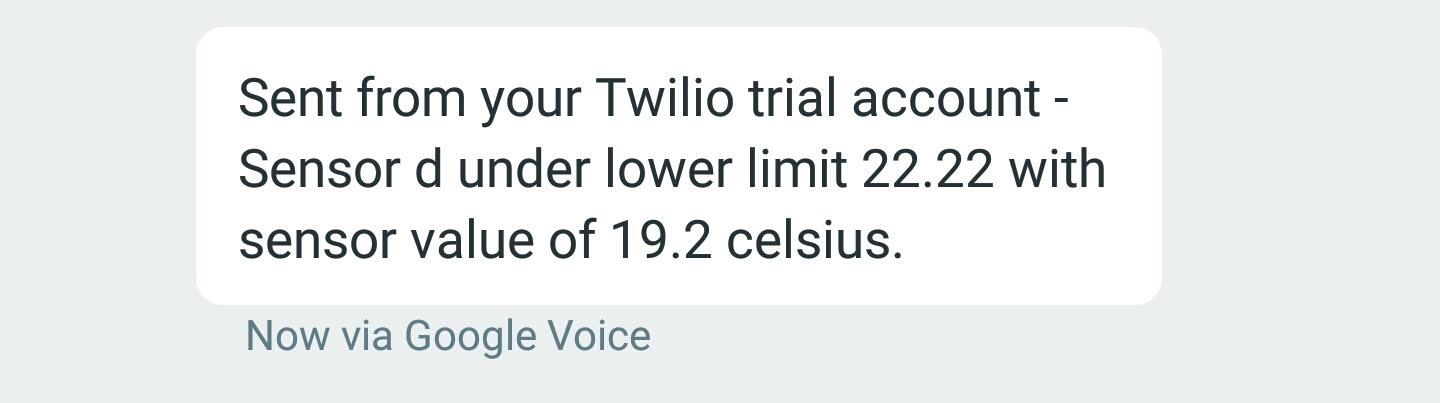
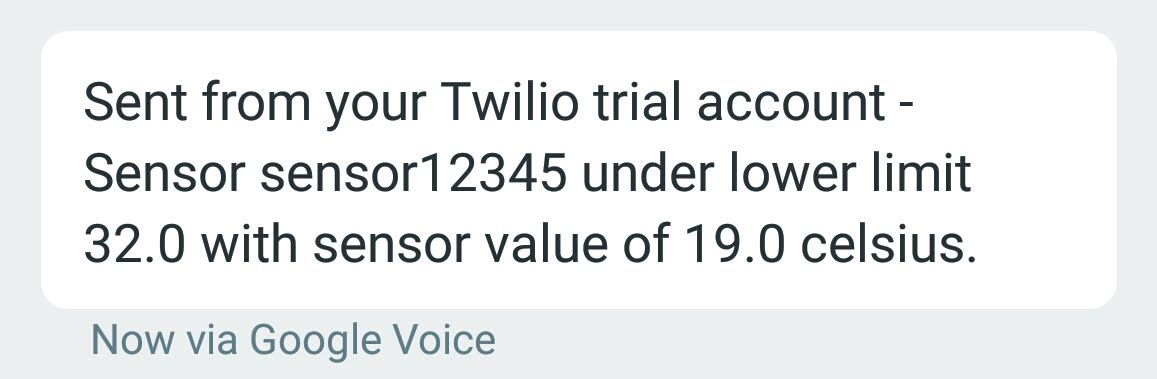
readme updates, id insert bugfix, sms screenshot update
- updates to readme
  - fix typeerror bug on id insert (singular value query in cur.execute)
  - updates to cleaner sms screenshot

Changed region(s): [[0.0622, 0.3483, 0.8401, 0.6966], [0.0622, 0.1741, 0.809, 0.3483], [0.0622, 0.7836, 0.4667, 0.9578]]

diff --git a/flask/pg.py b/flask/pg.py
@@ -201,7 +201,7 @@ def input_data(payload):
                     SELECT r.logic, r.unit, r.templ, r.temph
                     FROM rules r WHERE r.id = %s;
                     """,
-                    (id))
+                    (id,))
         res = cur.fetchone()
         cur.close()
         conn.close()
@@ -326,7 +326,7 @@ def get_rule(payload):
     except ValueError:
         return __error_resp__(400, 'id parameter not parsable')
 
-    print(id)
+    print(id, type(id))
 
     # get the rule for the input id from the db
     try:
@@ -335,10 +335,10 @@ def get_rule(payload):
         cur = conn.cursor()
 
         cur.execute("""
-                    SELECT r.logic, u.unit from rules r
+                    SELECT r.logic, u.unit, r.templ, r.temph from rules r
                     JOIN units u on u.id = r.unit WHERE r.id = %s;
                     """,
-                    (id))
+                    (id,))
         res = cur.fetchone()
         cur.close()
         conn.close()
@@ -346,7 +346,7 @@ def get_rule(payload):
             return __error_resp__(400, f'no rule exists for id {id}')
         else:
             return Response(
-                json.dumps({ 'logic': res[0], 'unit': res[1] }),
+                json.dumps({ 'logic': res[0], 'unit': res[1], 'templ': str(res[2]), 'temph': str(res[3]) }),
                 status=200,
                 mimetype='application/json'
             )

diff --git a/README.md b/README.md
@@ -1,11 +1,25 @@
 # FSG API
 
-## [Scope of Work](./SOW.md)
+- [Scope of Work](./SOW.md)
+- [Dependencies](#d)
+- [Instructions for Use](#ifu)
+  - [Setup](#su)
+  - [Teardown](#td)
+- API Reference
+  - [Setting Rules](#sr)
+    - [Examples](#sre)
+  - [Getting Rules](#gr)
+    - [Examples](#gre)
+  - [Pushing Sensor Data](#psd)
+    - [Examples](#psde)
+
+<a name="d"/>
 ## Dependencies
 
 - Docker daemon installed on local machine
 - You have a [Twilio account](https://www.twilio.com/try-twilio)
 
+<a name="ifu"/>
 ## Instructions for Use
 
 - Clone this repo to your machine
@@ -15,6 +29,7 @@
     messages to when there is an alert).
   - Do not change any values within the `pg` section of `constants.json`
 - Move into the root directory of the cloned repository
+<a name="su"/>
 - Run `docker-compose build --no-cache` to build the images
 - Run `docker-compose up` to start the cluster
   - This will spawn two machines:
@@ -24,7 +39,8 @@
     - For me, the value was `172.19.0.3`, yours may differ
     - Note that IP addresses tend to persist upon subsequent
         startup/shutdown sequences
-- The endpoints are as follows:
+- The endpoints exists on port 80 of the flask server and has the
+    following routes:
 
 | Path | Methods | MIME Type | Description |
 | --- | --- | --- | --- |
@@ -32,6 +48,7 @@
 | /setrule | POST | JSON | Where rules (temp limits, units, and logic) are set on a per-sensor basis. |
 | /getrule | GET | JSON | Retrieves rule details on a sensor. |
 
+<a name="sr"/>
 ### Setting Rules
 
 A sensor must have rules set before it can have data posted to it. To set
@@ -45,41 +62,112 @@ rules, call the `/setrule` endpoint with the following JSON:
 | templ     | float | 8B | see desc | n/a | required if logic != 1 |
 | temph     | float | 8B | see desc | n/a | required if logic != 0 |
 
+<a name="sre"/>
 #### Example
 
-Note: The below example assumes a flask api IP address of `172.19.0.3`.
+_Note: The below example assumes a flask api IP address of_ `172.19.0.3`:
 
 ```python
-import requests
-
-res = requests.post('http://172.19.0.3:80/setrule', json={"id":"sensor12345", "unit":1, "logic":0, "temph": 32})
+>>> import requests
+>>> res = requests.post('http://172.19.0.3:80/setrule', json={"id":"sensor12345", "unit":1, "logic":0, "temph": 32})
 ```
 
 If the call is successful, you should show the following response code and
 body:
 
 ```python
-res.status_code
-
+>>> res.status_code
 200
 ```
 
 ```python
-res.content
-
+>>> res.content
 b'{"id": "sensor12345", "unit": 1, "logic": 0, "templ": 32.0, "temph": ""}'
 ```
+
+<a name="gr"/>
+### Getting Rules
+
+Assuming _you have already set a rule for a sensor_ using the `/setrule`
+route, you may query the database for existing rules. These rules may not
+be updated once they have been created.
+
+| Parameter | Type | Range | Required? | Default | Description              |
+| --------- | ---- | ----- | --------- | ------- | ------------------------ |
+| id        | text | 1-255 | y         | n/a     | sensor GUID you wish to retrieve |
+
+<a name="gre"/>
+#### Example
+
+_Note: The below example assumes a flask api IP address of_ `172.19.0.3`:
+
+```python
+>>> import requests
+>>> res = requests.get('http://172.19.0.3:80/getrule', json={"id": "sensor12345"})
+```
+
+If the call is successful, you should show the following response code and body:
+
+```python
+>>> res.status_code
+200
+```
+
+```python
+>>> res.content
+b'{"logic": 0, "unit": "farenheit", "templ": "32.0", "temph": "None"}
+```
+
+<a name="psd"/>
+### Pushing Sensor Data
+
+Assuming _you have already set a rule for a sensor_ using the `/setrule`
+route, you may push sensor updates to that previously configured sensor `id`
+through the updates route, hosted at `/`.
+
+| Parameter | Type | Range | Required? | Default | Description              |
+| --------- | ---- | ----- | --------- | ------- | ------------------------ |
+| id        | text | 1-255 | y         | n/a     | sensor GUID you wish to post updates to |
+| value     | float| 8B    | y         | n/a     | temperature of sensor |
+| unit      | int  | 0-1   | n         | 0       | temp units (0=Celsius, 1=Fahrenheit) |
+
+Temperature conversions between rules and input data are conducted
+automatically. In other words, a sensor can be created with rules in
+Fahrenheit, and updated at the `/` route with units of Celsius. This does not
+affect the operation of the utility. Note that the default response unit from
+the api is in Celsius for simplicity.
+
+<a name="psde"/>
+#### Example
+
+_Note: The below example assumes a flask api IP address of_ `172.19.0.3`:
+
+```python
+>>> import requests
+>>> res = requests.post('http://172.19.0.3:80', json={"id":"sensor12345", "value": 19, "unit": 1})
+```
+
+Note that in the docker daemon logs, you should see debug output similar to the
+following:
+
+```
+web_1  | compare temps are:  {'logic': 0, 'unit': 1, 'templ': Decimal('32.0'), 'temph': None, 's_value': 19.0, 's_unit': 1, 'id': 'sensor12345'} 0 32.0 None 19.0 1
+web_1  | logic0, temp under lower lim
+web_1  | SM232XXXXXXXXXXXXXXXXXXXXXXXXXXXXX
+```
+
+The last line is the identifier of the text message sent to the mobile phone.
+This could be logged in the database with a few code changes if needed. It
+could also be caught with a logger on the daemon.
+
+Text messages will be presented to a mobile device similar to the following:
 
 <p align="center">
   <img src="./assets/sms.jpg" width="500">
 </p>
 
-- Clone the repo locally
-Logic levels:
-- logic 0: if temp is lower than templ, message is sent
-- logic 1: if temp is higher than temph, message is sent
-- logic 2: if temp is lower than templ or higher than temph, message is sent
+<a name="td"/>
+## Tear Down
 
-Units:
-- 0: Celsius
-- 1: Fahrenheit
+To stop the service, run `docker-compose stop && docker-compose rm -f` from the
+root directory of the cloned repository.
